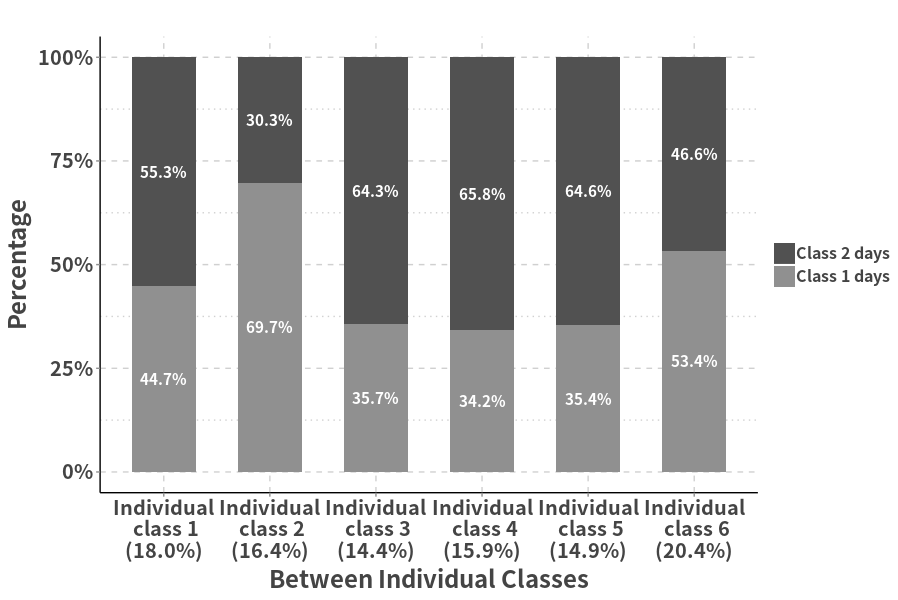
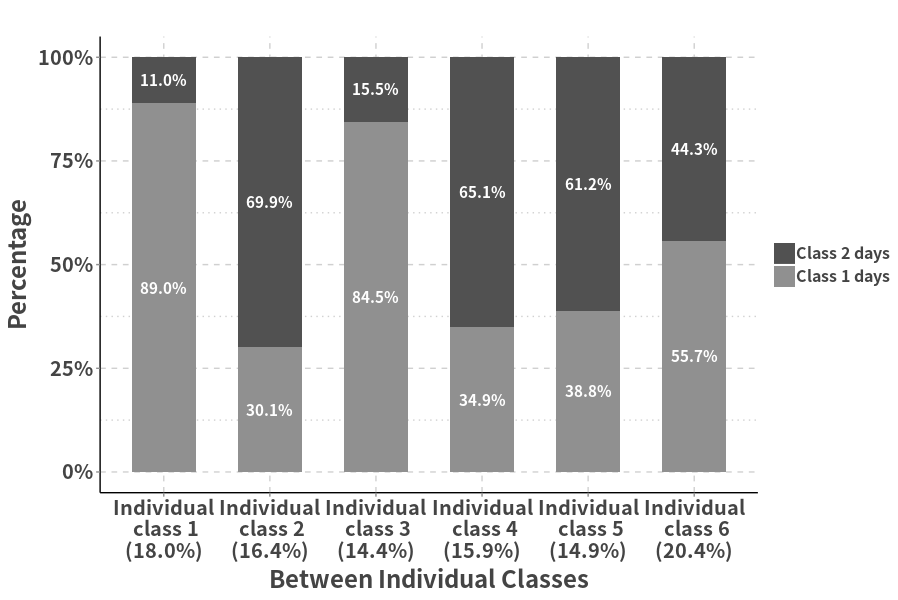
updated 3by3 year 58

diff --git a/NDNSRP_Y14.html b/NDNSRP_Y14.html
@@ -3,7 +3,7 @@
 "http://www.w3.org/TR/xhtml1/DTD/xhtml1-strict.dtd">
 <html xmlns="http://www.w3.org/1999/xhtml" lang="en" xml:lang="en">
 <head>
-<!-- 2019-05-13 Mon 22:57 -->
+<!-- 2019-05-13 Mon 23:30 -->
 <meta http-equiv="Content-Type" content="text/html;charset=utf-8" />
 <meta name="viewport" content="width=device-width, initial-scale=1" />
 <title>NDNS MLCA tables for participants during years 1-4 and 5-8 years separately</title>
@@ -261,49 +261,49 @@ for the JavaScript code in this tag.
 <h2>Table of Contents</h2>
 <div id="text-table-of-contents">
 <ul>
-<li><a href="#org7d31302">1. Gender distributions in years 1-4 and 5-8</a>
+<li><a href="#org9d351fe">1. Gender distributions in years 1-4 and 5-8</a>
 <ul>
-<li><a href="#orgc24b9da">1.1. Year 1-4</a></li>
-<li><a href="#org198830a">1.2. Year 5-8</a></li>
+<li><a href="#org7c938fb">1.1. Year 1-4</a></li>
+<li><a href="#org4a447b1">1.2. Year 5-8</a></li>
 </ul>
 </li>
-<li><a href="#orge08d450">2. Day level LCA model fitting information</a></li>
-<li><a href="#orge135ac4">3. MLCA model fitting information for participants Year 1-4 (best fitting in bold)</a></li>
-<li><a href="#orgd019039">4. MLCA model fitting information for participants Year 5-8 (best fitting in bold)</a></li>
-<li><a href="#org4c5b4e8">5. Day level solution for participants Year 1-4</a>
+<li><a href="#orgc8b341d">2. Day level LCA model fitting information</a></li>
+<li><a href="#orgf58fd38">3. MLCA model fitting information for participants Year 1-4 (best fitting in bold)</a></li>
+<li><a href="#orgcda270a">4. MLCA model fitting information for participants Year 5-8 (best fitting in bold)</a></li>
+<li><a href="#orgeeed396">5. Day level solution for participants Year 1-4</a>
 <ul>
-<li><a href="#orgbd79965">5.1. 2 day types</a></li>
-<li><a href="#org78d38fe">5.2. 3 day types</a></li>
+<li><a href="#org6175af4">5.1. 2 day types</a></li>
+<li><a href="#orga747cda">5.2. 3 day types</a></li>
 </ul>
 </li>
-<li><a href="#org5145aea">6. Day level solution for participants Year 5-8</a>
+<li><a href="#org49aaef3">6. Day level solution for participants Year 5-8</a>
 <ul>
-<li><a href="#orgd4676b6">6.1. 2 day types</a></li>
-<li><a href="#orgc9c4a0d">6.2. 3 day types</a></li>
+<li><a href="#org8576231">6.1. 2 day types</a></li>
+<li><a href="#orgd556ad0">6.2. 3 day types</a></li>
 </ul>
 </li>
-<li><a href="#org6c6054f">7. Individual level solution for participants Year 1-4</a>
+<li><a href="#orgb0d24d8">7. Individual level solution for participants Year 1-4</a>
 <ul>
-<li><a href="#orgdf686d3">7.1. 2 \(\times\) 4 solution (the best one in terms of model fitting)</a></li>
-<li><a href="#org9e5c49b">7.2. 3 \(\times\) 3 solution (the best one in terms of interpretation)</a></li>
+<li><a href="#orgf0f7789">7.1. 2 \(\times\) 4 solution (the best one in terms of model fitting)</a></li>
+<li><a href="#orgfad518e">7.2. 3 \(\times\) 3 solution (the best one in terms of interpretation)</a></li>
 </ul>
 </li>
-<li><a href="#org6774fc9">8. Individual level solution for participants Year 5-8</a>
+<li><a href="#org3d71426">8. Individual level solution for participants Year 5-8</a>
 <ul>
-<li><a href="#org38b6c28">8.1. 2 \(\times\) 6 solution (the best one in terms of model fitting)</a></li>
-<li><a href="#orgc83506c">8.2. 3 \(\times\) 3 solution (the best one in terms of interpretation)</a></li>
+<li><a href="#org81c805e">8.1. 2 \(\times\) 6 solution (the best one in terms of model fitting)</a></li>
+<li><a href="#org94998dd">8.2. 3 \(\times\) 3 solution (the best one in terms of interpretation)</a></li>
 </ul>
 </li>
 </ul>
 </div>
 </div>
 
-<div id="outline-container-org7d31302" class="outline-2">
-<h2 id="org7d31302"><span class="section-number-2">1</span> Gender distributions in years 1-4 and 5-8</h2>
+<div id="outline-container-org9d351fe" class="outline-2">
+<h2 id="org9d351fe"><span class="section-number-2">1</span> Gender distributions in years 1-4 and 5-8</h2>
 <div class="outline-text-2" id="text-1">
 </div>
-<div id="outline-container-orgc24b9da" class="outline-3">
-<h3 id="orgc24b9da"><span class="section-number-3">1.1</span> Year 1-4</h3>
+<div id="outline-container-org7c938fb" class="outline-3">
+<h3 id="org7c938fb"><span class="section-number-3">1.1</span> Year 1-4</h3>
 <div class="outline-text-3" id="text-1-1">
 <table border="2" cellspacing="0" cellpadding="6" rules="groups" frame="hsides">
 
@@ -351,8 +351,8 @@ for the JavaScript code in this tag.
 </div>
 
 
-<div id="outline-container-org198830a" class="outline-3">
-<h3 id="org198830a"><span class="section-number-3">1.2</span> Year 5-8</h3>
+<div id="outline-container-org4a447b1" class="outline-3">
+<h3 id="org4a447b1"><span class="section-number-3">1.2</span> Year 5-8</h3>
 <div class="outline-text-3" id="text-1-2">
 <table border="2" cellspacing="0" cellpadding="6" rules="groups" frame="hsides">
 
@@ -401,8 +401,8 @@ for the JavaScript code in this tag.
 </div>
 
 
-<div id="outline-container-orge08d450" class="outline-2">
-<h2 id="orge08d450"><span class="section-number-2">2</span> Day level LCA model fitting information</h2>
+<div id="outline-container-orgc8b341d" class="outline-2">
+<h2 id="orgc8b341d"><span class="section-number-2">2</span> Day level LCA model fitting information</h2>
 <div class="outline-text-2" id="text-2">
 <table border="2" cellspacing="0" cellpadding="6" rules="groups" frame="hsides">
 
@@ -597,8 +597,8 @@ for the JavaScript code in this tag.
 
 
 
-<div id="outline-container-orge135ac4" class="outline-2">
-<h2 id="orge135ac4"><span class="section-number-2">3</span> MLCA model fitting information for participants Year 1-4 (best fitting in bold)</h2>
+<div id="outline-container-orgf58fd38" class="outline-2">
+<h2 id="orgf58fd38"><span class="section-number-2">3</span> MLCA model fitting information for participants Year 1-4 (best fitting in bold)</h2>
 <div class="outline-text-2" id="text-3">
 <table border="2" cellspacing="0" cellpadding="6" rules="groups" frame="hsides">
 
@@ -995,8 +995,8 @@ for the JavaScript code in this tag.
 </div>
 
 
-<div id="outline-container-orgd019039" class="outline-2">
-<h2 id="orgd019039"><span class="section-number-2">4</span> MLCA model fitting information for participants Year 5-8 (best fitting in bold)</h2>
+<div id="outline-container-orgcda270a" class="outline-2">
+<h2 id="orgcda270a"><span class="section-number-2">4</span> MLCA model fitting information for participants Year 5-8 (best fitting in bold)</h2>
 <div class="outline-text-2" id="text-4">
 <table border="2" cellspacing="0" cellpadding="6" rules="groups" frame="hsides">
 
@@ -1394,26 +1394,26 @@ for the JavaScript code in this tag.
 
 
 
-<div id="outline-container-org4c5b4e8" class="outline-2">
-<h2 id="org4c5b4e8"><span class="section-number-2">5</span> Day level solution for participants Year 1-4</h2>
+<div id="outline-container-orgeeed396" class="outline-2">
+<h2 id="orgeeed396"><span class="section-number-2">5</span> Day level solution for participants Year 1-4</h2>
 <div class="outline-text-2" id="text-5">
 </div>
-<div id="outline-container-orgbd79965" class="outline-3">
-<h3 id="orgbd79965"><span class="section-number-3">5.1</span> 2 day types</h3>
+<div id="outline-container-org6175af4" class="outline-3">
+<h3 id="org6175af4"><span class="section-number-3">5.1</span> 2 day types</h3>
 <div class="outline-text-3" id="text-5-1">
 
-<div id="org279b3e0" class="figure">
+<div id="org40a39f9" class="figure">
 <p><a href="https://wangcc.me/Emacsnotes/Pic/Y14_2daytypes809_739.png"><img src="https://wangcc.me/Emacsnotes/Pic/Y14_2daytypes809_739.png" alt="Y14_2daytypes809_739.png" /></a>
 </p>
 <p><span class="figure-number">Figure 1: </span>2 Classes in day level (Participants recruited between Year 1-4)</p>
 </div>
 </div>
 </div>
-<div id="outline-container-org78d38fe" class="outline-3">
-<h3 id="org78d38fe"><span class="section-number-3">5.2</span> 3 day types</h3>
+<div id="outline-container-orga747cda" class="outline-3">
+<h3 id="orga747cda"><span class="section-number-3">5.2</span> 3 day types</h3>
 <div class="outline-text-3" id="text-5-2">
 
-<div id="orge4d4741" class="figure">
+<div id="org93ccc4c" class="figure">
 <p><a href="https://wangcc.me/Emacsnotes/Pic/Y14_3daytypes809_809.png"><img src="https://wangcc.me/Emacsnotes/Pic/Y14_3daytypes809_809.png" alt="Y14_3daytypes809_809.png" /></a>
 </p>
 <p><span class="figure-number">Figure 2: </span>3 Classes in day level (Participants recruited between Year 1-4)</p>
@@ -1423,29 +1423,29 @@ for the JavaScript code in this tag.
 </div>
 
 
-<div id="outline-container-org5145aea" class="outline-2">
-<h2 id="org5145aea"><span class="section-number-2">6</span> Day level solution for participants Year 5-8</h2>
+<div id="outline-container-org49aaef3" class="outline-2">
+<h2 id="org49aaef3"><span class="section-number-2">6</span> Day level solution for participants Year 5-8</h2>
 <div class="outline-text-2" id="text-6">
 </div>
-<div id="outline-container-orgd4676b6" class="outline-3">
-<h3 id="orgd4676b6"><span class="section-number-3">6.1</span> 2 day types</h3>
+<div id="outline-container-org8576231" class="outline-3">
+<h3 id="org8576231"><span class="section-number-3">6.1</span> 2 day types</h3>
 <div class="outline-text-3" id="text-6-1">
 
-<div id="orgde01d2f" class="figure">
+<div id="org780be6b" class="figure">
 <p><a href="https://wangcc.me/Emacsnotes/Pic/Y58_2daytypes809_739.png"><img src="https://wangcc.me/Emacsnotes/Pic/Y58_2daytypes809_739.png" alt="Y58_2daytypes809_739.png" /></a>
 </p>
 <p><span class="figure-number">Figure 3: </span>2 Classes in day level (Participants recruited between Year 5-8)</p>
 </div>
 </div>
 </div>
-<div id="outline-container-orgc9c4a0d" class="outline-3">
-<h3 id="orgc9c4a0d"><span class="section-number-3">6.2</span> 3 day types</h3>
+<div id="outline-container-orgd556ad0" class="outline-3">
+<h3 id="orgd556ad0"><span class="section-number-3">6.2</span> 3 day types</h3>
 <div class="outline-text-3" id="text-6-2">
 <p>
 <b><b>(First day class looks quite different from the one from Year 1-4 and the whole sample, and may not be appropriate to be called as "high percentage carb day")</b></b>
 </p>
 
-<div id="org33668ee" class="figure">
+<div id="org8fcaaff" class="figure">
 <p><a href="https://wangcc.me/Emacsnotes/Pic/Y58_3daytypes809_809.png"><img src="https://wangcc.me/Emacsnotes/Pic/Y58_3daytypes809_809.png" alt="Y58_3daytypes809_809.png" /></a>
 </p>
 <p><span class="figure-number">Figure 4: </span>3 Classes in day level  (Participants recruited between Year 5-8)</p>
@@ -1454,19 +1454,19 @@ for the JavaScript code in this tag.
 </div>
 </div>
 
-<div id="outline-container-org6c6054f" class="outline-2">
-<h2 id="org6c6054f"><span class="section-number-2">7</span> Individual level solution for participants Year 1-4</h2>
+<div id="outline-container-orgb0d24d8" class="outline-2">
+<h2 id="orgb0d24d8"><span class="section-number-2">7</span> Individual level solution for participants Year 1-4</h2>
 <div class="outline-text-2" id="text-7">
 </div>
-<div id="outline-container-orgdf686d3" class="outline-3">
-<h3 id="orgdf686d3"><span class="section-number-3">7.1</span> 2 \(\times\) 4 solution (the best one in terms of model fitting)</h3>
+<div id="outline-container-orgf0f7789" class="outline-3">
+<h3 id="orgf0f7789"><span class="section-number-3">7.1</span> 2 \(\times\) 4 solution (the best one in terms of model fitting)</h3>
 <div class="outline-text-3" id="text-7-1">
 <p>
 <b><b>Here individual class 1 and class 3 are very similar (i.e. not separated).</b></b>
 </p>
 
 
-<div id="org74739a6" class="figure">
+<div id="org3e257c5" class="figure">
 <p><a href="https://wangcc.me/Emacsnotes/Pic/Y14_2by4_721_544.png"><img src="https://wangcc.me/Emacsnotes/Pic/Y14_2by4_721_544.png" alt="Y14_2by4_721_544.png" /></a>
 </p>
 <p><span class="figure-number">Figure 5: </span>2 classes in day level, 4 classes in individual level (Year 1-4)</p>
@@ -1475,11 +1475,11 @@ for the JavaScript code in this tag.
 </div>
 
 
-<div id="outline-container-org9e5c49b" class="outline-3">
-<h3 id="org9e5c49b"><span class="section-number-3">7.2</span> 3 \(\times\) 3 solution (the best one in terms of interpretation)</h3>
+<div id="outline-container-orgfad518e" class="outline-3">
+<h3 id="orgfad518e"><span class="section-number-3">7.2</span> 3 \(\times\) 3 solution (the best one in terms of interpretation)</h3>
 <div class="outline-text-3" id="text-7-2">
 
-<div id="org6568e9e" class="figure">
+<div id="org11cada6" class="figure">
 <p><a href="https://wangcc.me/Emacsnotes/Pic/Y14_3by3_721_544.png"><img src="https://wangcc.me/Emacsnotes/Pic/Y14_3by3_721_544.png" alt="Y14_3by3_721_544.png" /></a>
 </p>
 <p><span class="figure-number">Figure 6: </span>3 classes in day level, 3 classes in individual level (Year 1-4)</p>
@@ -1488,19 +1488,19 @@ for the JavaScript code in this tag.
 </div>
 </div>
 
-<div id="outline-container-org6774fc9" class="outline-2">
-<h2 id="org6774fc9"><span class="section-number-2">8</span> Individual level solution for participants Year 5-8</h2>
+<div id="outline-container-org3d71426" class="outline-2">
+<h2 id="org3d71426"><span class="section-number-2">8</span> Individual level solution for participants Year 5-8</h2>
 <div class="outline-text-2" id="text-8">
 </div>
-<div id="outline-container-org38b6c28" class="outline-3">
-<h3 id="org38b6c28"><span class="section-number-3">8.1</span> 2 \(\times\) 6 solution (the best one in terms of model fitting)</h3>
+<div id="outline-container-org81c805e" class="outline-3">
+<h3 id="org81c805e"><span class="section-number-3">8.1</span> 2 \(\times\) 6 solution (the best one in terms of model fitting)</h3>
 <div class="outline-text-3" id="text-8-1">
 <p>
-<b><b>AGAIN, here individual class 3, 4 and class 5 are very similar (i.e. not separated).</b></b>
+<b><b>AGAIN, here individual class 2, 4 and class 5 look very similar; 1 and 3 also seems not separated well as we thought.</b></b>
 </p>
 
 
-<div id="orgde55d92" class="figure">
+<div id="orgcd8e9e9" class="figure">
 <p><a href="https://wangcc.me/Emacsnotes/Pic/Y58_2by6_898_600.png"><img src="https://wangcc.me/Emacsnotes/Pic/Y58_2by6_898_600.png" alt="Y58_2by6_898_600.png" /></a>
 </p>
 <p><span class="figure-number">Figure 7: </span>2 classes in day level, 6 classes in individual level (Year 5-8)</p>
@@ -1508,14 +1508,18 @@ for the JavaScript code in this tag.
 </div>
 </div>
 
-<div id="outline-container-orgc83506c" class="outline-3">
-<h3 id="orgc83506c"><span class="section-number-3">8.2</span> 3 \(\times\) 3 solution (the best one in terms of interpretation)</h3>
+<div id="outline-container-org94998dd" class="outline-3">
+<h3 id="org94998dd"><span class="section-number-3">8.2</span> 3 \(\times\) 3 solution (the best one in terms of interpretation)</h3>
 <div class="outline-text-3" id="text-8-2">
-
-<div id="org0e7221f" class="figure">
-<p><img src="https://wangcc.me/AJCN_temp_NDNS/Women/CW3CB3.png" alt="CW3CB3.png" />
+<p>
+<b><b>Note that in years 5-8, even high carbohydrate eaters had less than 30% days with high percentages of carbohydrates</b></b>
 </p>
-<p><span class="figure-number">Figure 8: </span>3 classes in day level, 3 classes in individual level (women)</p>
+
+
+<div id="orgd6dd9b4" class="figure">
+<p><a href="https://wangcc.me/Emacsnotes/Pic/Y58_3by3_721_544.png"><img src="https://wangcc.me/Emacsnotes/Pic/Y58_3by3_721_544.png" alt="Y58_3by3_721_544.png" /></a>
+</p>
+<p><span class="figure-number">Figure 8: </span>3 classes in day level, 3 classes in individual level (Year 5-8)</p>
 </div>
 </div>
 </div>
@@ -1523,7 +1527,7 @@ for the JavaScript code in this tag.
 </div>
 <div id="postamble" class="status">
 <p class="author">Author: <a href="https://wangcc.me">Chaochen Wang</a></p>
-<p class="date">Created: 2019-05-13 Mon 22:57</p>
+<p class="date">Created: 2019-05-13 Mon 23:30</p>
 <p class="validation"><a href="http://validator.w3.org/check?uri=referer">Validate</a></p>
 </div>
 </body>
